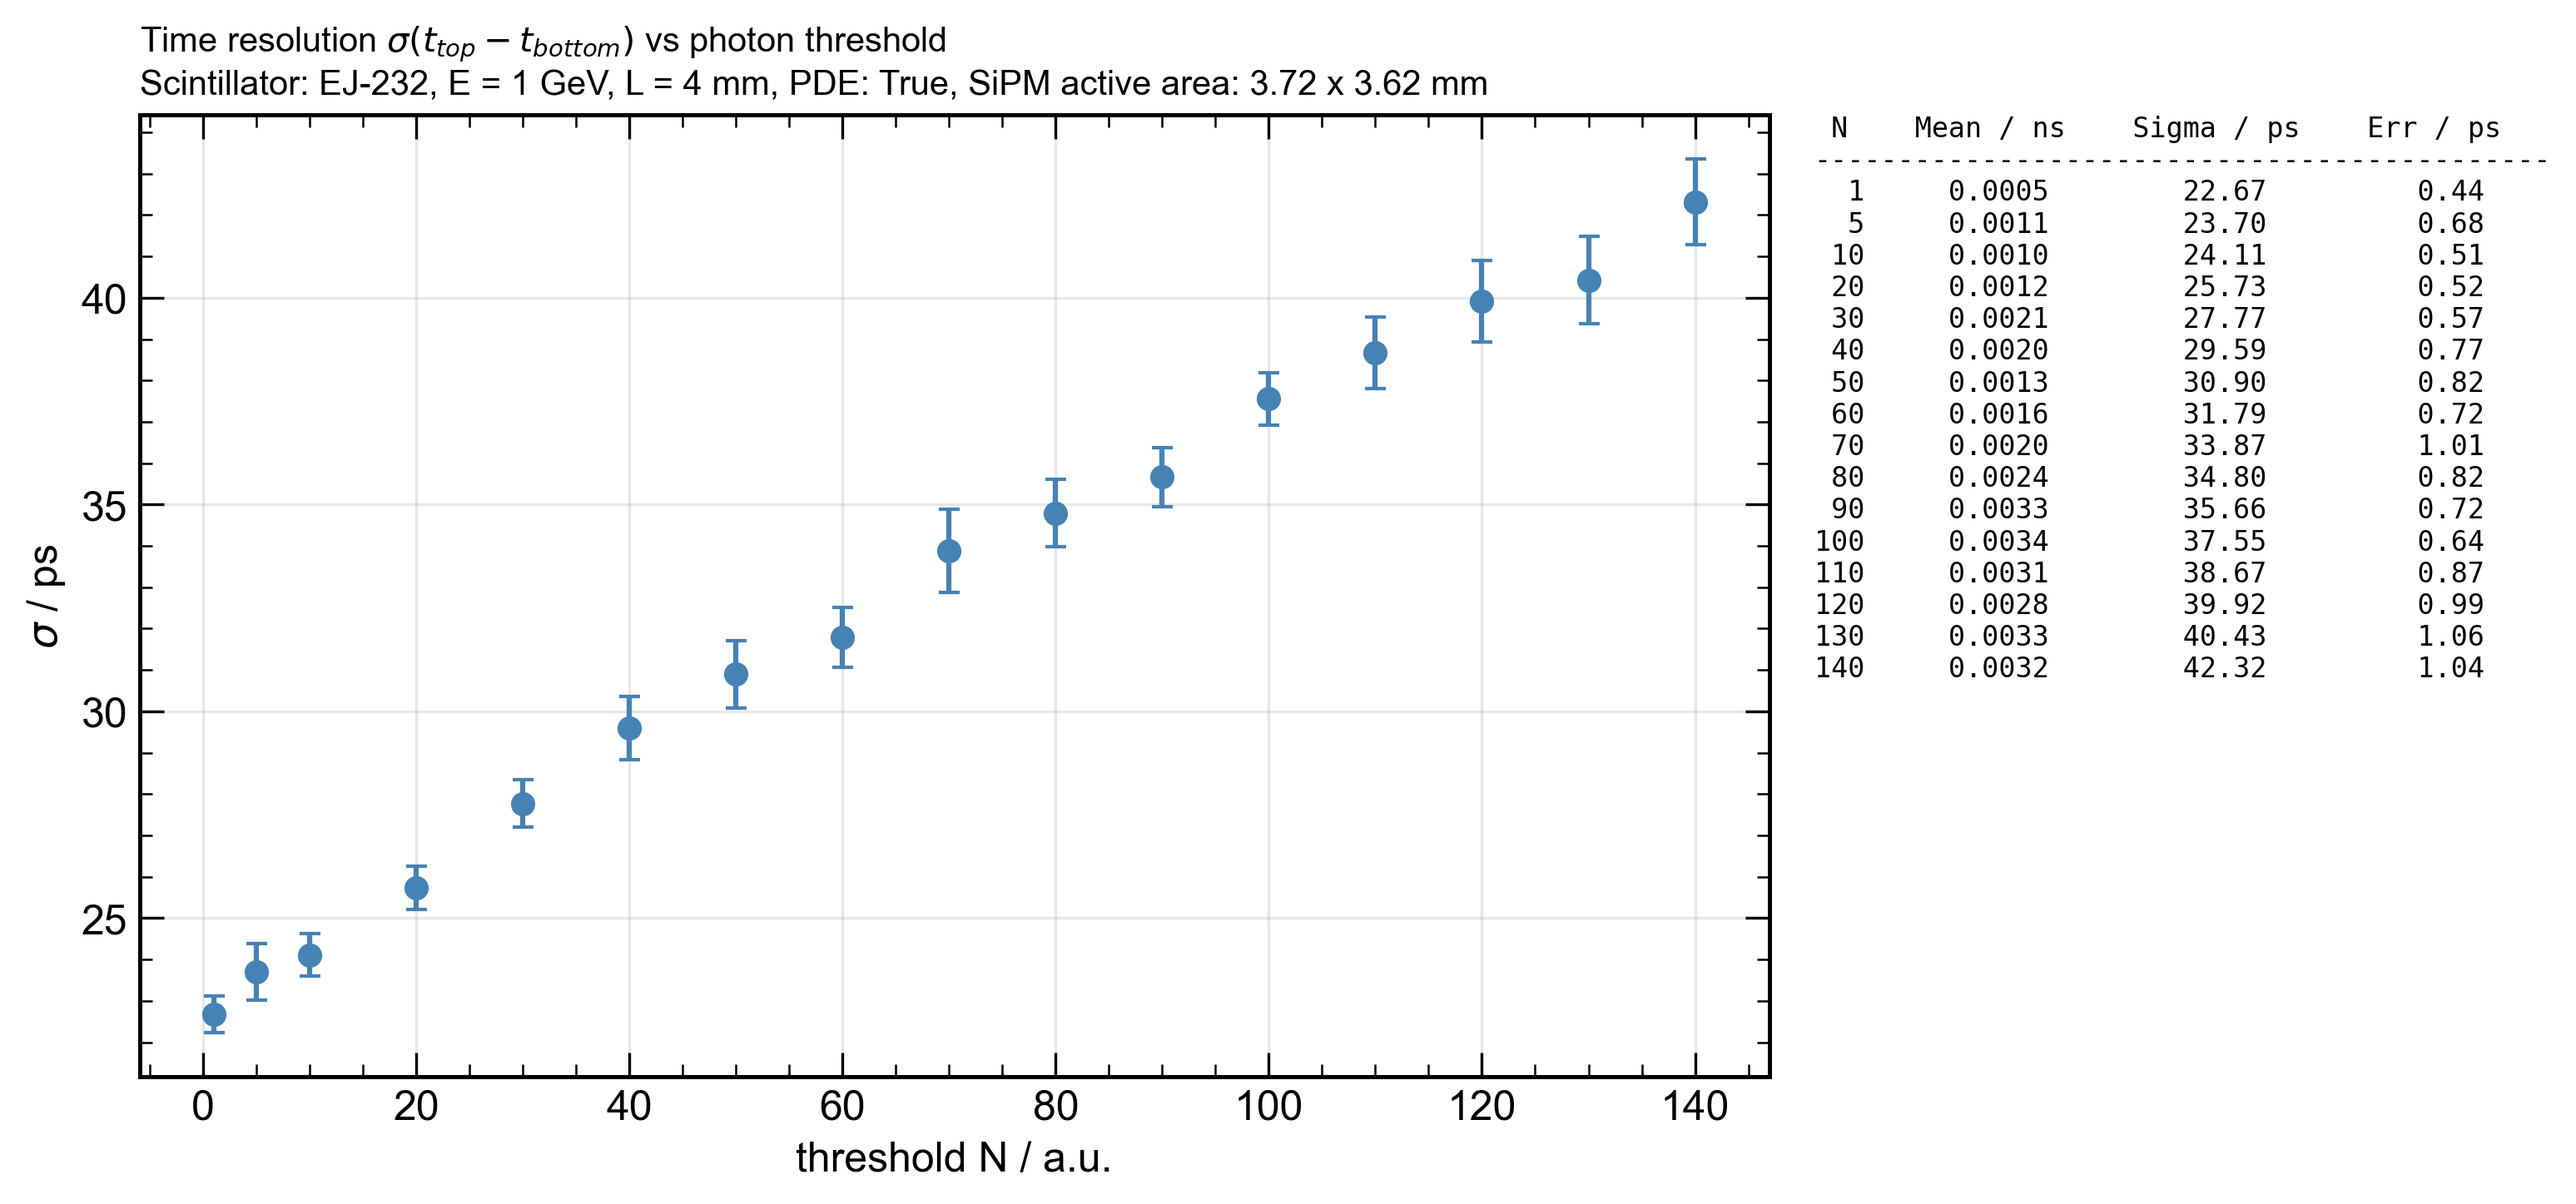
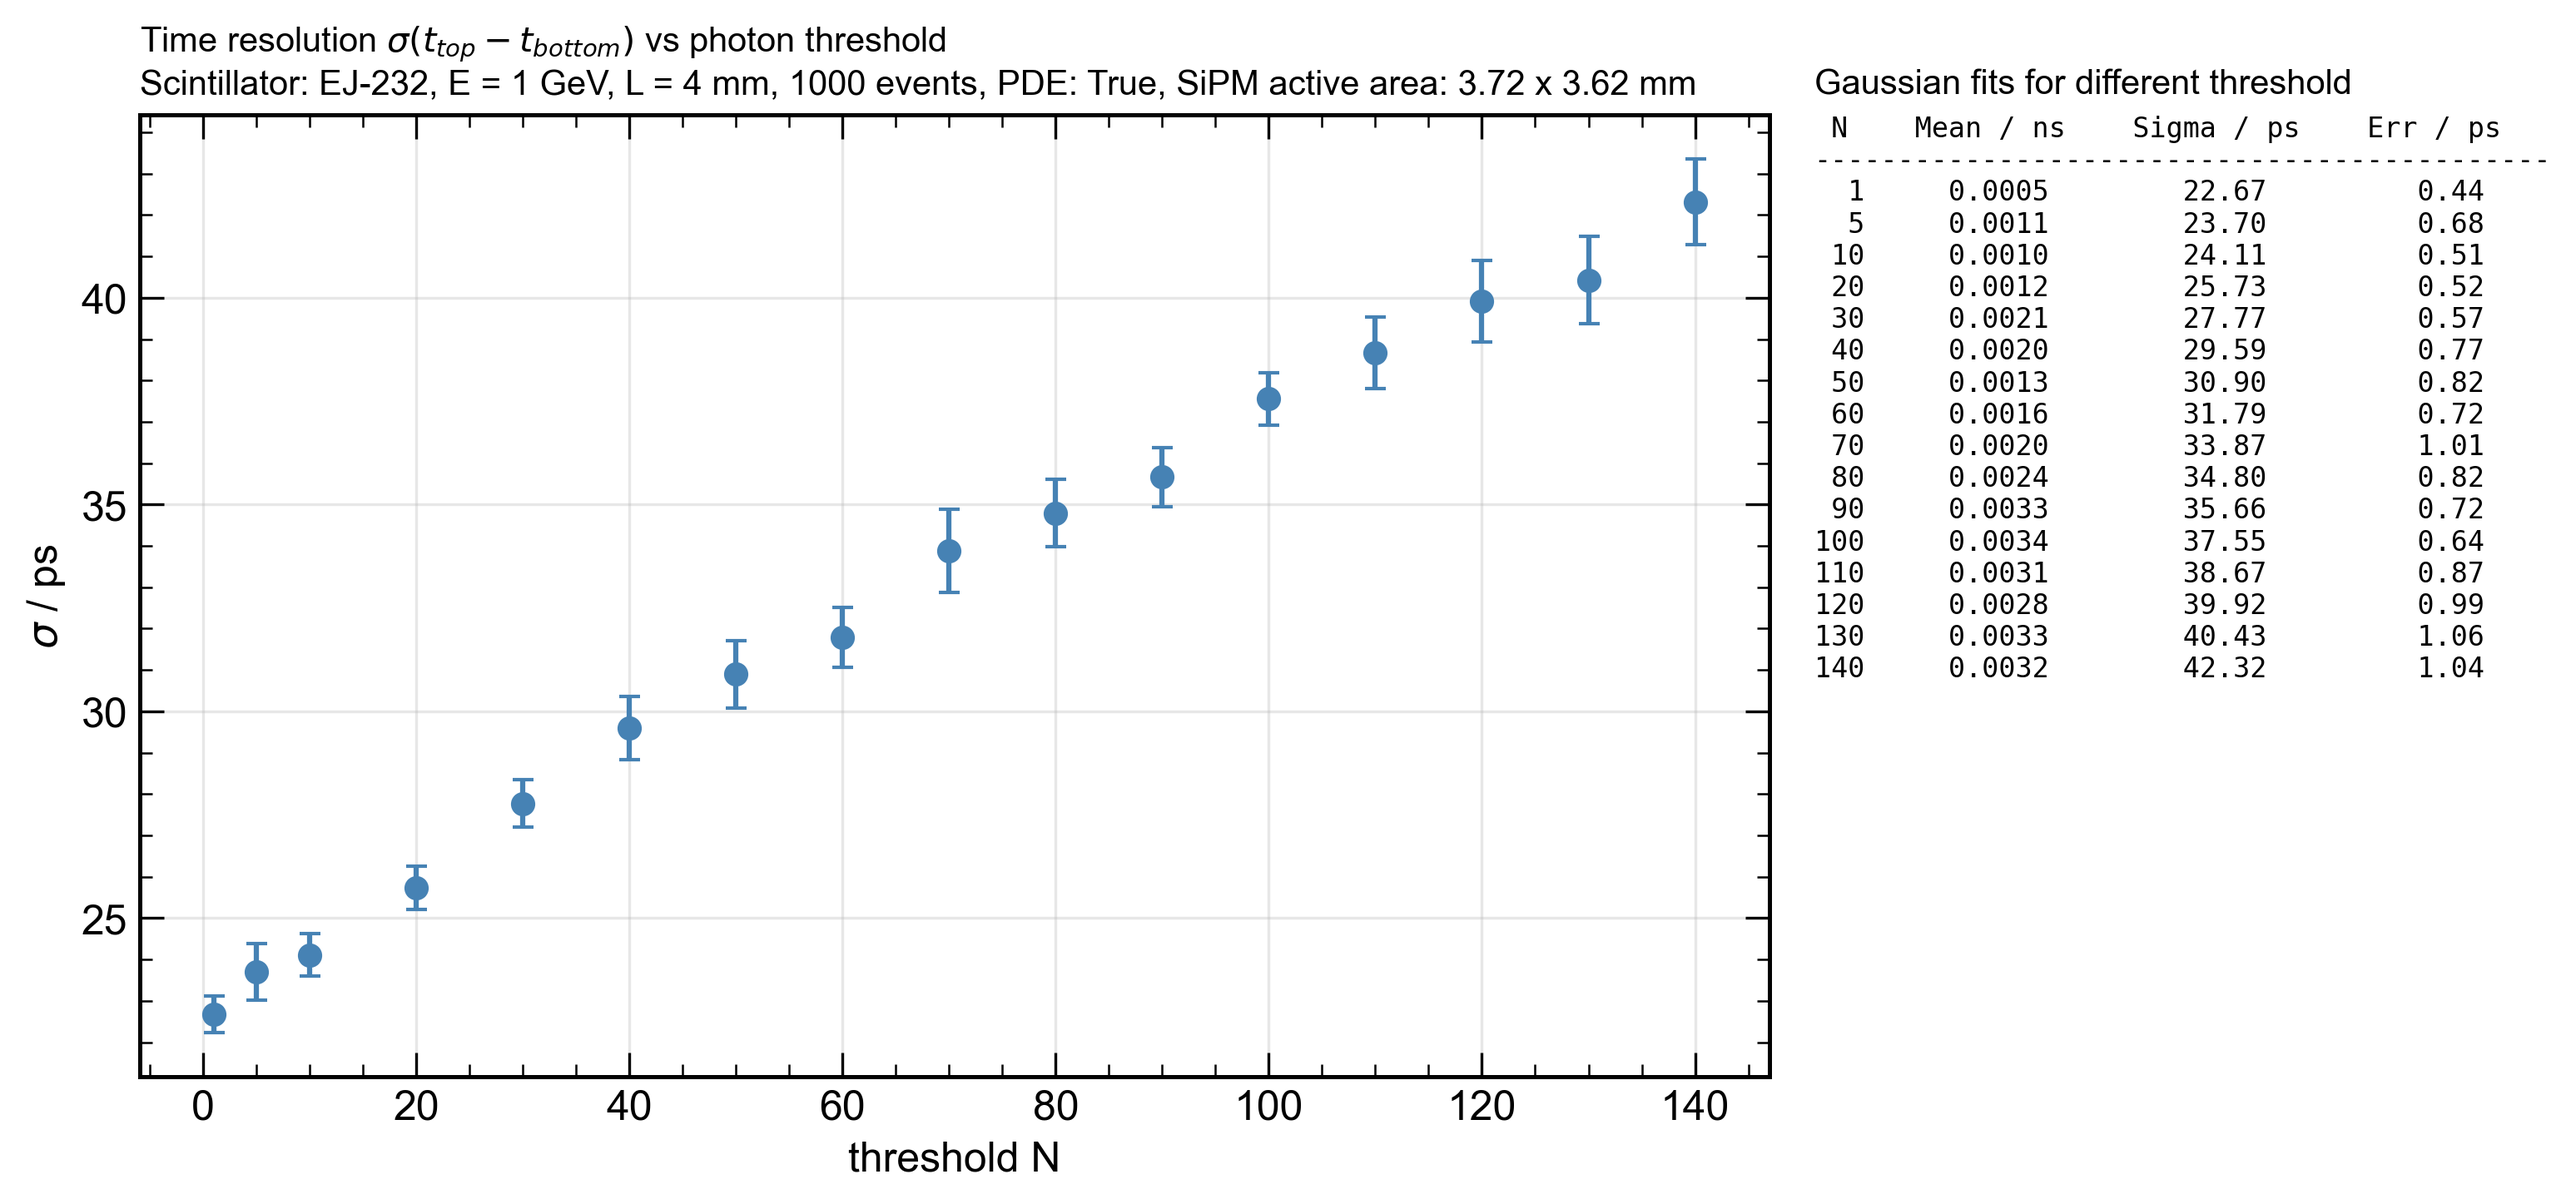
new

Changed region(s): [[0.3102, 0.0622, 0.6514, 0.0933], [0.3102, 0.933, 0.4342, 0.9952], [0.7134, 0.0622, 0.9305, 0.0933]]

diff --git a/threshold/run.py b/threshold/run.py
@@ -38,11 +38,13 @@ plt.rcParams.update({
     "errorbar.capsize": 3,
 })
 
-def plot_title(what, length=None):
+def plot_title(what, length=None, n_events=None):
     # Erste Zeile: Inhalt, zweite Zeile: Setup
     setup = [f"Scintillator: {SCINTILLATOR_TYPE}", f"E = {ENERGY}"]
     if length is not None:
         setup.append(f"L = {length:g} mm")
+    if n_events is not None:
+        setup.append(f"{n_events} events")
     setup += [f"PDE: {PDE_APPLIED}", f"SiPM active area: {SIPM_ACTIVE_AREA}"]
     return f"{what}\n" + ", ".join(setup)
 
@@ -69,6 +71,7 @@ def save_plot(filename=None):
 files = ["4mm.csv", "70mm.csv", "100mm.csv"]
 
 all_valid_fits = {}
+events_per_length = {}
 
 # Je ein Bild für alle Längen, ein Teilplot pro Länge (nach Länge sortiert)
 files = sorted(files, key=lambda name: float(name.removesuffix("mm.csv")))
@@ -387,6 +390,7 @@ for file_index, file in enumerate(files):
         1, 2, figsize=(11, 5), gridspec_kw={"width_ratios": [3, 1.3]}
     )
     ax_table.axis("off")
+    ax_table.set_title("Gaussian fits for different threshold", loc="left", fontsize=10)
 
     ax_sigma.errorbar(
         valid_fits["Threshold"],
@@ -401,12 +405,17 @@ for file_index, file in enumerate(files):
         data["EventID"] == first_event_id, "ScintillatorLenght"
     ].iloc[0]
     all_valid_fits[float(scintillator_length)] = valid_fits
+    events_per_length[float(scintillator_length)] = counts_events
     ax_sigma.set_title(
-        plot_title(r"Time resolution $\sigma(t_{top} - t_{bottom})$ vs photon threshold", scintillator_length),
+        plot_title(
+            r"Time resolution $\sigma(t_{top} - t_{bottom})$ vs photon threshold",
+            scintillator_length,
+            counts_events,
+        ),
         loc="left",
         fontsize=10,
     )
-    ax_sigma.set_xlabel("threshold N / a.u.")
+    ax_sigma.set_xlabel("threshold N")
     ax_sigma.set_ylabel(r"$\sigma$ / ps")
 
     stats_text = " N    Mean / ns    Sigma / ps    Err / ps\n"
@@ -435,6 +444,56 @@ for file_index, file in enumerate(files):
     # plt.show()
 
     print(f"Finished plotting threshold difference Gaussian sigma: {scintillator_length} mm")
+
+    # Verteilung der Differenz bei fester Schwelle mit Gauss-Fit
+    hist_threshold = 50
+    hist_diff = threshold_times["Difference"][hist_threshold].dropna().to_numpy(dtype=float)
+
+    if len(hist_diff) > 1:
+        hist_mean, hist_sigma, hist_mean_err, hist_sigma_err = fit_gauss(hist_diff, return_errors=True)
+        hist_edges = np.histogram_bin_edges(hist_diff, bins="auto")
+        hist_bin_width = hist_edges[1] - hist_edges[0]
+
+        fig, ax_hist = plt.subplots(figsize=(8, 5.5))
+        ax_hist.hist(
+            hist_diff,
+            bins=hist_edges,
+            histtype="step",
+            linewidth=2,
+            color="steelblue",
+            label=f"data"
+        )
+
+        if np.isfinite(hist_mean):
+            fit_x = np.linspace(hist_edges[0], hist_edges[-1], 1000)
+            ax_hist.plot(
+                fit_x,
+                len(hist_diff) * hist_bin_width * gauss(fit_x, hist_mean, hist_sigma),
+                color="red",
+                linewidth=2,
+                label=(
+                    "Gaussian fit\n"
+                    rf"$\mu = {hist_mean * 1000:.1f} \pm {hist_mean_err * 1000:.1f}$ ps" "\n"
+                    rf"$\sigma = {hist_sigma * 1000:.1f} \pm {hist_sigma_err * 1000:.1f}$ ps"
+                ),
+            )
+
+        ax_hist.set_title(
+            plot_title(
+                rf"Distribution of $t_{{top}} - t_{{bottom}}$ at threshold N = {hist_threshold}",
+                scintillator_length,
+                len(hist_diff),
+            ),
+            loc="left",
+            fontsize=10,
+        )
+        ax_hist.set_xlabel(r"$t_{top} - t_{bottom}$ / ns")
+        ax_hist.set_ylabel("counts / bin")
+        ax_hist.legend()
+
+        fig.tight_layout()
+        save_plot(f"threshold_difference_distribution_N{hist_threshold}_{scintillator_length}mm")
+        plt.close(fig)
 
     # for column, x_label, _ in scatter_specs:
     #     ax = scatter_figures[column][1][file_index]
@@ -465,7 +524,7 @@ length_styles = {
     for i, length in enumerate(sorted(all_valid_fits))
 }
 
-def plot_lengths(lengths, title, filename):
+def plot_lengths(lengths, title, filename, n_events=None):
     fig, ax = plt.subplots(figsize=(9, 6))
 
     for length in lengths:
@@ -481,7 +540,7 @@ def plot_lengths(lengths, title, filename):
             label=f"{length:g} mm",
         )
 
-    ax.set_title(plot_title(title), loc="left", fontsize=10)
+    ax.set_title(plot_title(title, n_events=n_events), loc="left", fontsize=10)
     ax.set_xlabel("photon threshold N")
     ax.set_ylabel(r"$\sigma$ / ps")
     ax.legend(title="Length")
@@ -491,8 +550,10 @@ def plot_lengths(lengths, title, filename):
     # plt.show()
 
 # Alle Längen in einem Plot
+event_counts = set(events_per_length.values())
 plot_lengths(
     sorted(all_valid_fits),
     r"Time resolution $\sigma(t_{top} - t_{bottom})$ vs photon threshold N, L = (4, 70, 100) mm",
     "threshold_difference_gauss_sigma_all_lengths",
+    n_events=event_counts.pop() if len(event_counts) == 1 else None,
 )
